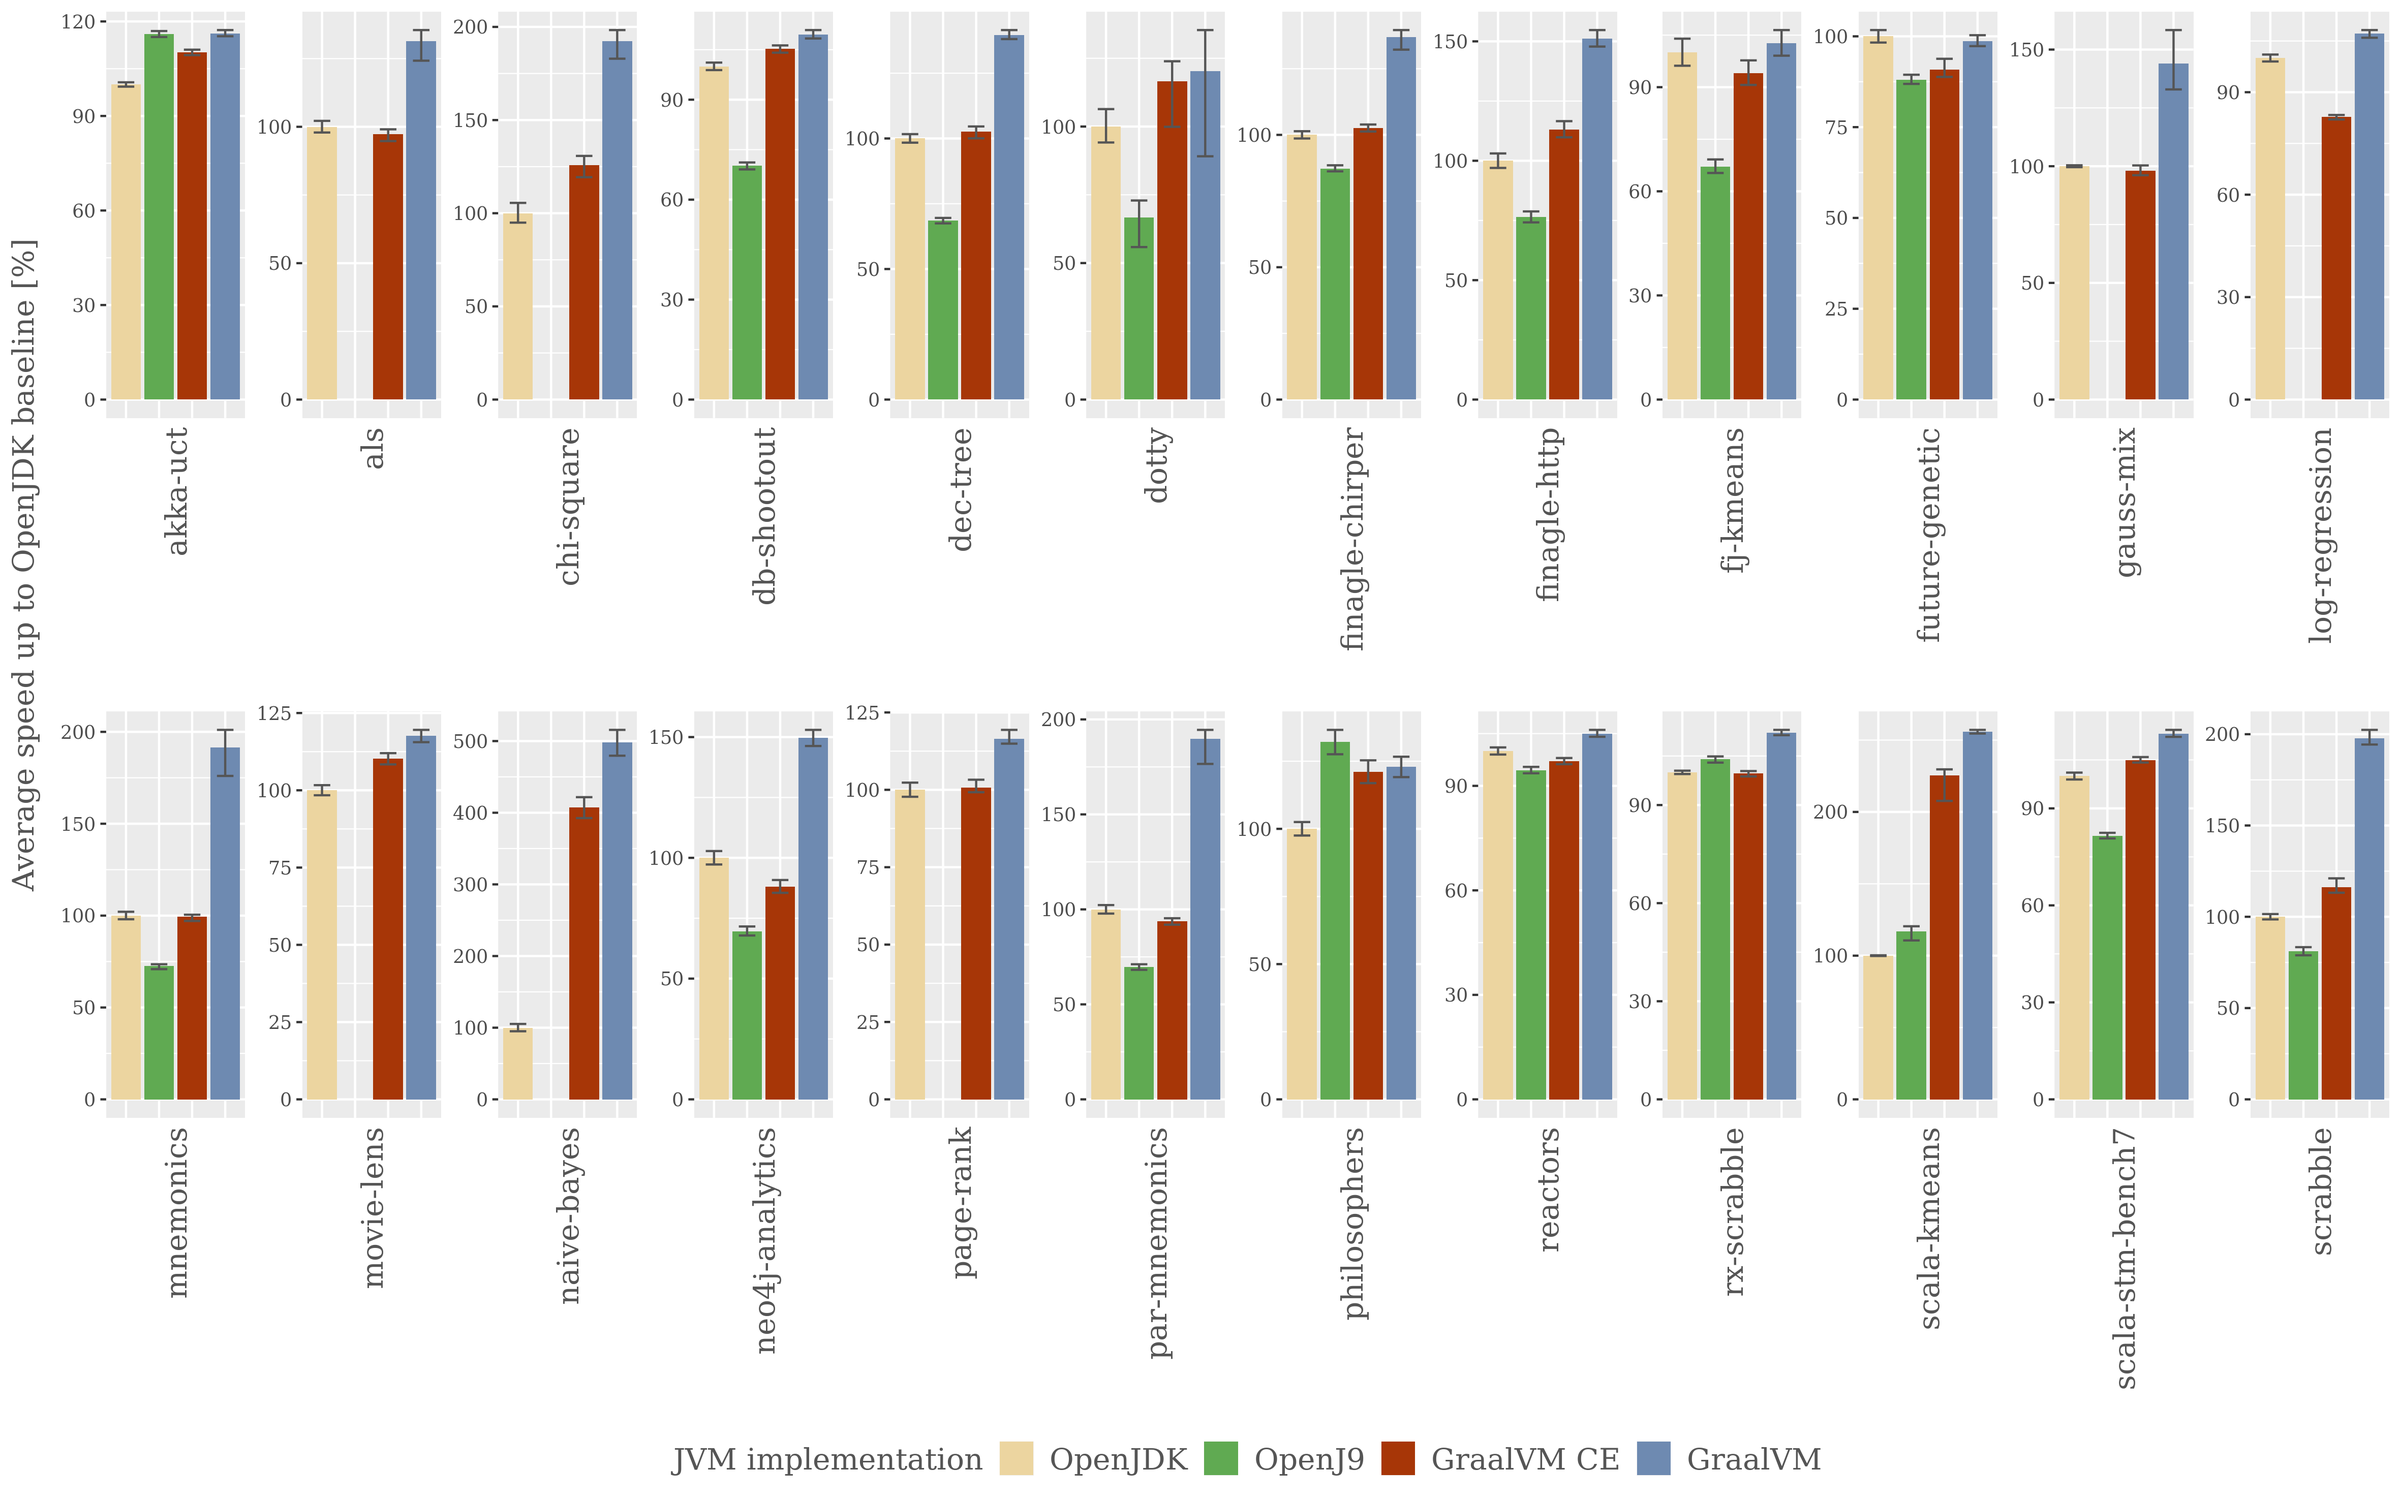
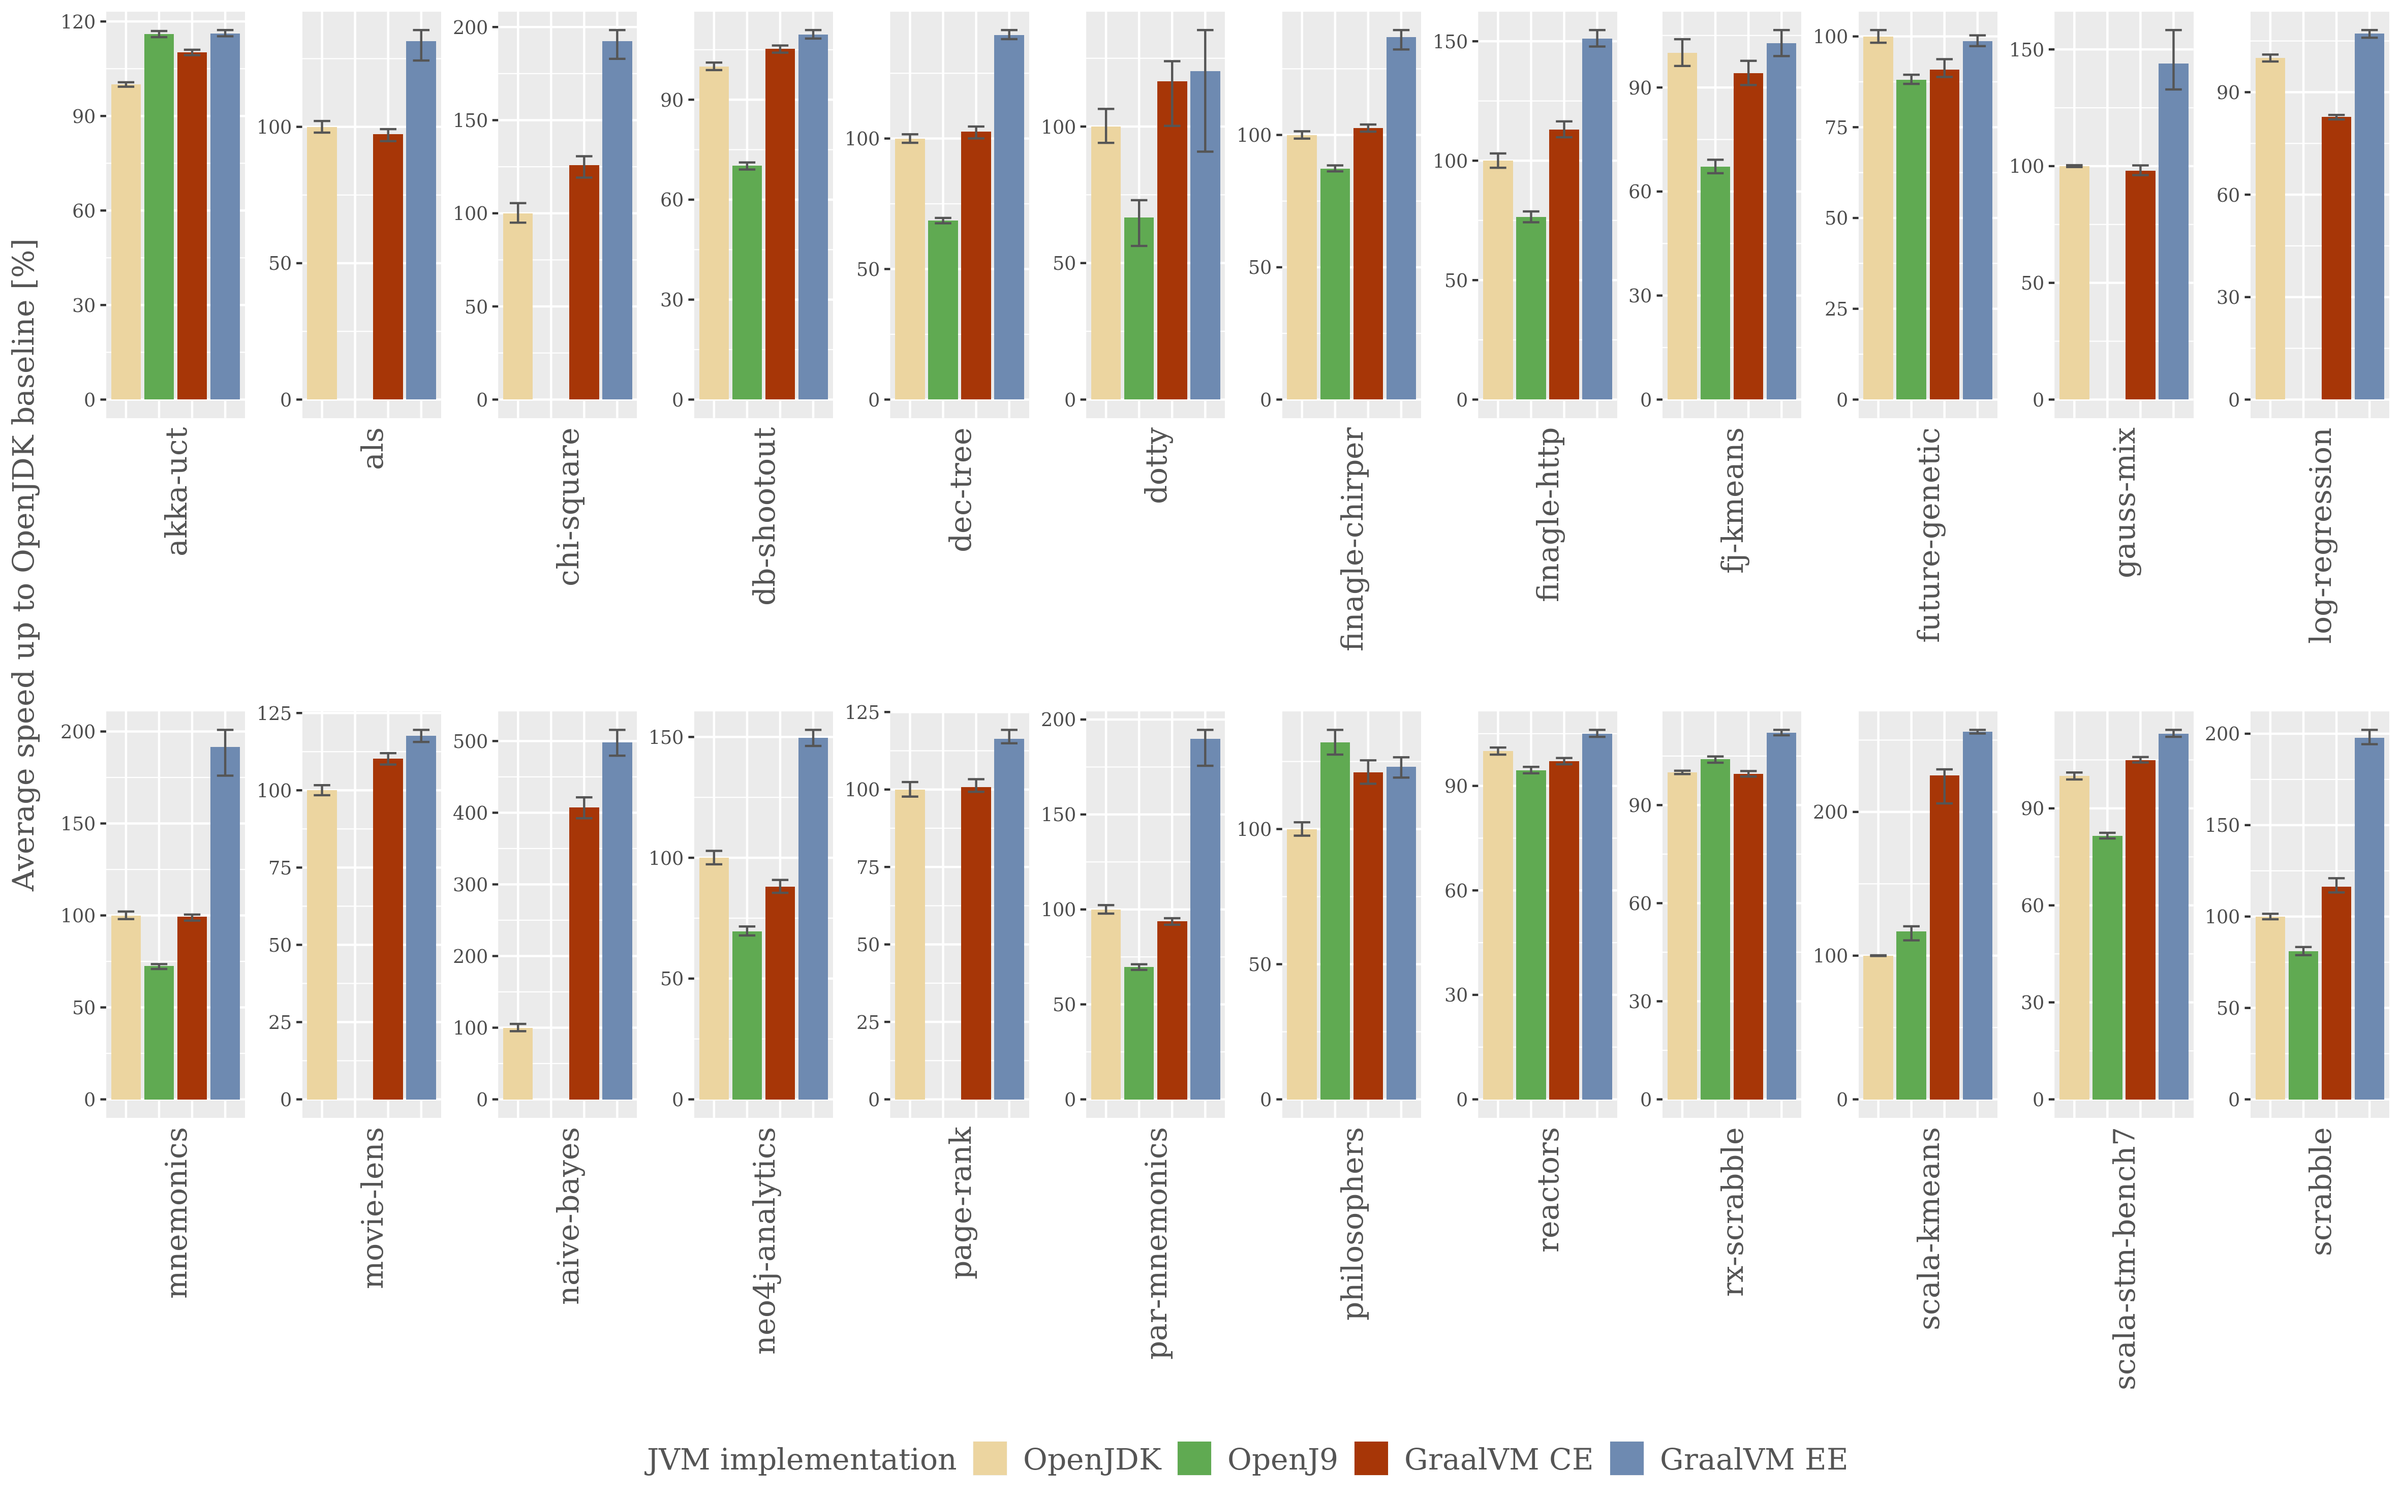
Rename GraalVM Enterprise Edition in plots

Changed region(s): [[0.2801, 0.935, 0.7779, 0.9973]]

diff --git a/README.md b/README.md
@@ -49,7 +49,7 @@ OpenJDK Runtime Environment (build 1.8.0_202-20190206132807.buildslave.jdk8u-src
 OpenJDK GraalVM CE 1.0.0-rc16 (build 25.202-b08-jvmci-0.59, mixed mode)
 ```
 
-- **GraalVM** is Graal Enterprise Edition 1.0.0-rc16.
+- **GraalVM EE** is Graal Enterprise Edition 1.0.0-rc16.
 ```
 > java -version
 java version "1.8.0_202"
